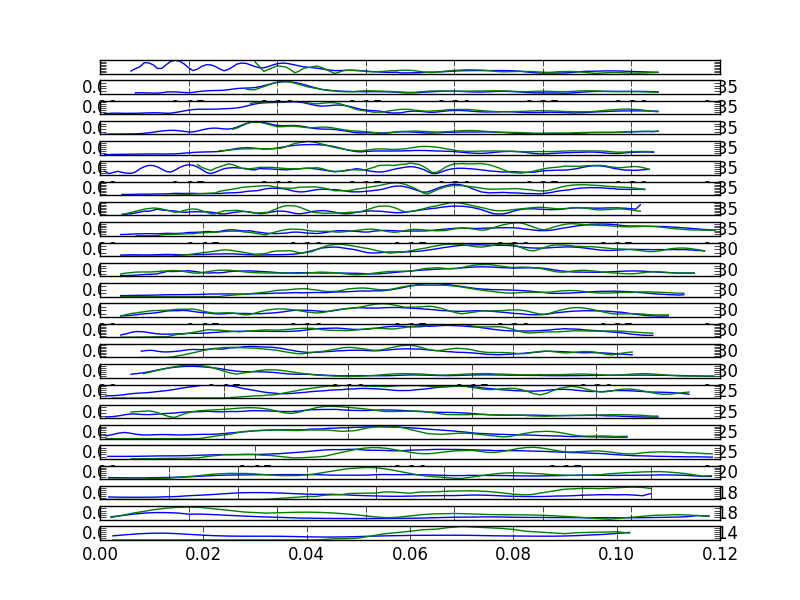
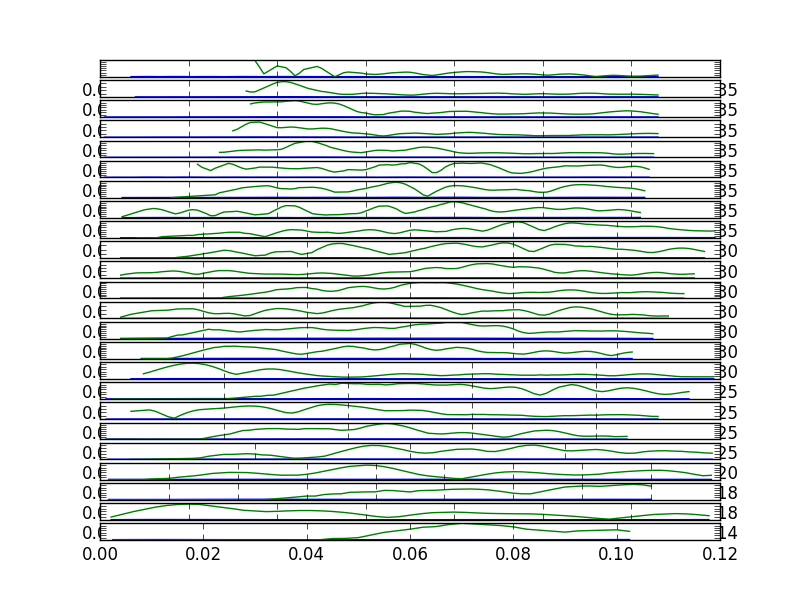
ready for rosetta1 workinadj = result files tagged with run num plus LL.png print to screen working LL to image using agg

diff --git a/static_in_pro/media_root/Rosetta_programs/layerLinesToImage.py b/static_in_pro/media_root/Rosetta_programs/layerLinesToImage.py
@@ -1,9 +1,9 @@
 #! /usr/bin/python
 """
-This script reads experimenatal and simulated
+This script reads experimenatal and experimental
 layer lines and convets them to an iamge
 
-Usage: layerLinesToImage.py -e layer_lines(experimental) -s layer_lines(simulated)
+Usage: layerLinesToImage.py -e layer_lines(experimental) -s layer_lines(experimental)
 
 layer_lines - text file containing containing three columns 1st: Intensity,
 2nd reciprocal Rs, 3rd: Number of Layer line
@@ -14,92 +14,79 @@ __maintainer__ = "Wojtek Potrzebowski"
 __email__ = "Wojciech.Potrzebowski@biochemistry.lu.se"
 
 import optparse
-import os
-import sys 
 import numpy as np
-import matplotlib.pyplot as plt
+import matplotlib
+matplotlib.use('Agg')  #!main thread is not in main loop error if not included
+import matplotlib.pyplot as plt             #this removes the previous plot from main thread
+
+
 from trydjango18.views import Sound
 
-def read_layer_lines(filename, simulated=False):
 
-    #path alterations to deal with Django pathfinding issues
-    if 'intensity' in filename:
-        path=filename   #path alteration to deal with Django pathfinding issues
-    else:
-        path='static_in_pro/media_root/' + filename
+class LLTI(object):
+    """ class to run LLtoImage, avoid 'main thread is not in main loop' error"""
+    def __init__(self, intensity, experimental, output):
+        self.ExpR = {}
+        self.ExpI = {}
+        self.SimR = {}
+        self.SimI = {}
+        self.intensity = intensity
+        self.experimental = experimental
+        self.output = output
 
-    f = open(path)
-    R_l = {}
-    I_l = {}
-    lines = f.readlines()
-    for line in lines:
-        line_arr = line.split()
-        layer_index = int(line_arr[2].strip())
-        reciprocal_R = float(line_arr[1])
-        if simulated:
-            intensity = np.sqrt(float(line_arr[0]))
+        if 'none chosen' in str(self.experimental):
+            self.SimR, self.SimI = self.read_layer_lines(self.intensity)
+            self.ExpR, self.ExpI = self.read_layer_lines(self.intensity)
         else:
-            intensity = float(line_arr[0])
-        if layer_index in R_l:
-            R_l[layer_index].append(reciprocal_R)
-            I_l[layer_index].append(intensity)
+            self.SimR, self.SimI = self.read_layer_lines(self.intensity)
+            self.ExpR, self.ExpI = self.read_layer_lines(self.experimental)
+
+    def read_layer_lines(self, theFile):
+
+        #path modded since Django is crazy
+        if 'intensity' in theFile:
+            path=theFile   #path alteration to deal with Django pathfinding issues
         else:
-            R_l[layer_index] = [reciprocal_R]
-            I_l[layer_index] = [intensity]
-    return R_l, I_l
+            path='static_in_pro/media_root/' + theFile
+        f = open(path)
 
+        R_l = {}
+        I_l = {}
+        lines = f.readlines()
+        for line in lines:
+            line_arr = line.split()
+            layer_index = int(line_arr[2].strip())
+            reciprocal_R = float(line_arr[1])
+            if self.experimental:
+                intensity = np.sqrt(float(line_arr[0]))
+            else:
+                intensity = float(line_arr[0])
+            if layer_index in R_l:
+                R_l[layer_index].append(reciprocal_R)
+                I_l[layer_index].append(intensity)
+            else:
+                R_l[layer_index] = [reciprocal_R]
+                I_l[layer_index] = [intensity]
+            self.layerlines_no=layer_index
 
-def convert_to_image(ExpR, ExpI, SimR, SimI, output): #modded to add output
-	"""
-	Makes plots from layer lines and store them in image file
-	"""
-	layer_lines_no = len(ExpR.keys())
-	fig, axrr = plt.subplots(nrows=layer_lines_no)      #!!!main thread is not in main loop
+        return R_l, I_l
 
-	lindex = 0 #Should be the same as layer line but better play safe
-	for lline in ExpR.keys():
-		#And will have add simulated stuff as well
-		axrr[lindex].plot(ExpR[lline], ExpI[lline])
-		axrr[lindex].plot(SimR[lline], SimI[lline])
-		axrr[lindex].set_yticklabels([])
-		lindex+=1
+    def convert_to_image(self): #modded to add output
+        from matplotlib.backends.backend_agg import FigureCanvasAgg
+        """
+        Makes plots from layer lines and store them in image file
+        """
+        layer_lines_no = int(self.layerlines_no)
+        fig, axrr = plt.subplots(nrows=layer_lines_no+1)
 
-	# Only show ticks on the left and bottom spines
-	#ax1.yaxis.set_ticks_position('left')
-	#ax1.xaxis.set_ticks_position('bottom')
+        lindex = 0 #Should be the same as layer line but better play safe
+        for lline in self.ExpR.keys():
+            #And will have add experimental stuff as well
+            axrr[lindex].plot(self.ExpR[lline], self.ExpI[lline])
+            axrr[lindex].plot(self.SimR[lline], self.SimI[lline])
+            axrr[lindex].set_yticklabels([])
+            lindex+=1
 
-	# Tweak spacing between subplots to prevent labels from overlapping
-	plt.subplots_adjust(hspace=0.5)
-	plt.savefig(output)#modded to add output
-	#plt.show()   #modded to avoid showing
-
-
-if __name__=="__main__":
-	doc = """
-	    Reads simulated and experimental layer lines from input files
-	    and converts it to image.
-	    Usage: python layerLinesToImage.py --help
-	"""
-	#print doc
-	usage = "usage: %prog [options] args"
-	option_parser_class = optparse.OptionParser
-	parser = option_parser_class( usage = usage, version='0.1' )
-
-	parser.add_option("-e", "--experimental", dest="experimental",
-                      help="Experimental layer lines [OBLIGATORY]")
-	parser.add_option("-s", "--simulated", dest="simulated",
-                      help="Simulated layer lines [OBLIGATORY]")
-
-	#modded to add output flag (makes LLoutputpic)
-	parser.add_option("-o", "--output", dest="output",
-                      help="output [OBLIGATORY]")
-
-	options, args = parser.parse_args()
-	experimental = options.experimental
-	simulated = options.simulated
-	output = options.output  #modded to add output
-
-	ExpR, ExpI = read_layer_lines(experimental)
-	SimR, SimI = read_layer_lines(simulated, True)
-
-	convert_to_image(ExpR,ExpI,SimR,SimI,output)  #modded to add output
+        # Tweak spacing between subplots to prevent labels from overlapping
+        plt.subplots_adjust(hspace=0.5)
+        fig.savefig(self.output)

diff --git a/trydjango18/views.py b/trydjango18/views.py
@@ -5,7 +5,7 @@
 import datetime
 from django.shortcuts import render
 import os
-
+import json
 
 #page views
 def home(request):
@@ -16,6 +16,7 @@ def about(request):
 
 def main(request):
     if request.user.is_authenticated():
+        resetLoad(request.user.username)
         return render(request, 'main.html', {})   #mainpage with rosetta: only access if logged in
     else:
         return render(request, 'home.html', {})
@@ -53,6 +54,19 @@ def removePath(path):
     import ntpath
     trimmed = ntpath.basename(path)  #careful: does not deal with 'file.txt/' syntax
     return trimmed
+
+
+#reset Load at start
+def resetLoad(username):
+    try:
+        thefile = PathMaker(username, 'CurrentLoaded.txt')
+        FH = open(thefile, 'w')
+        dict ={}
+        json.dump(dict, FH)
+        FH.close()
+    except:
+        pass
+
 
 #sound for debugging
 def Sound(i):  #beep number as argument
